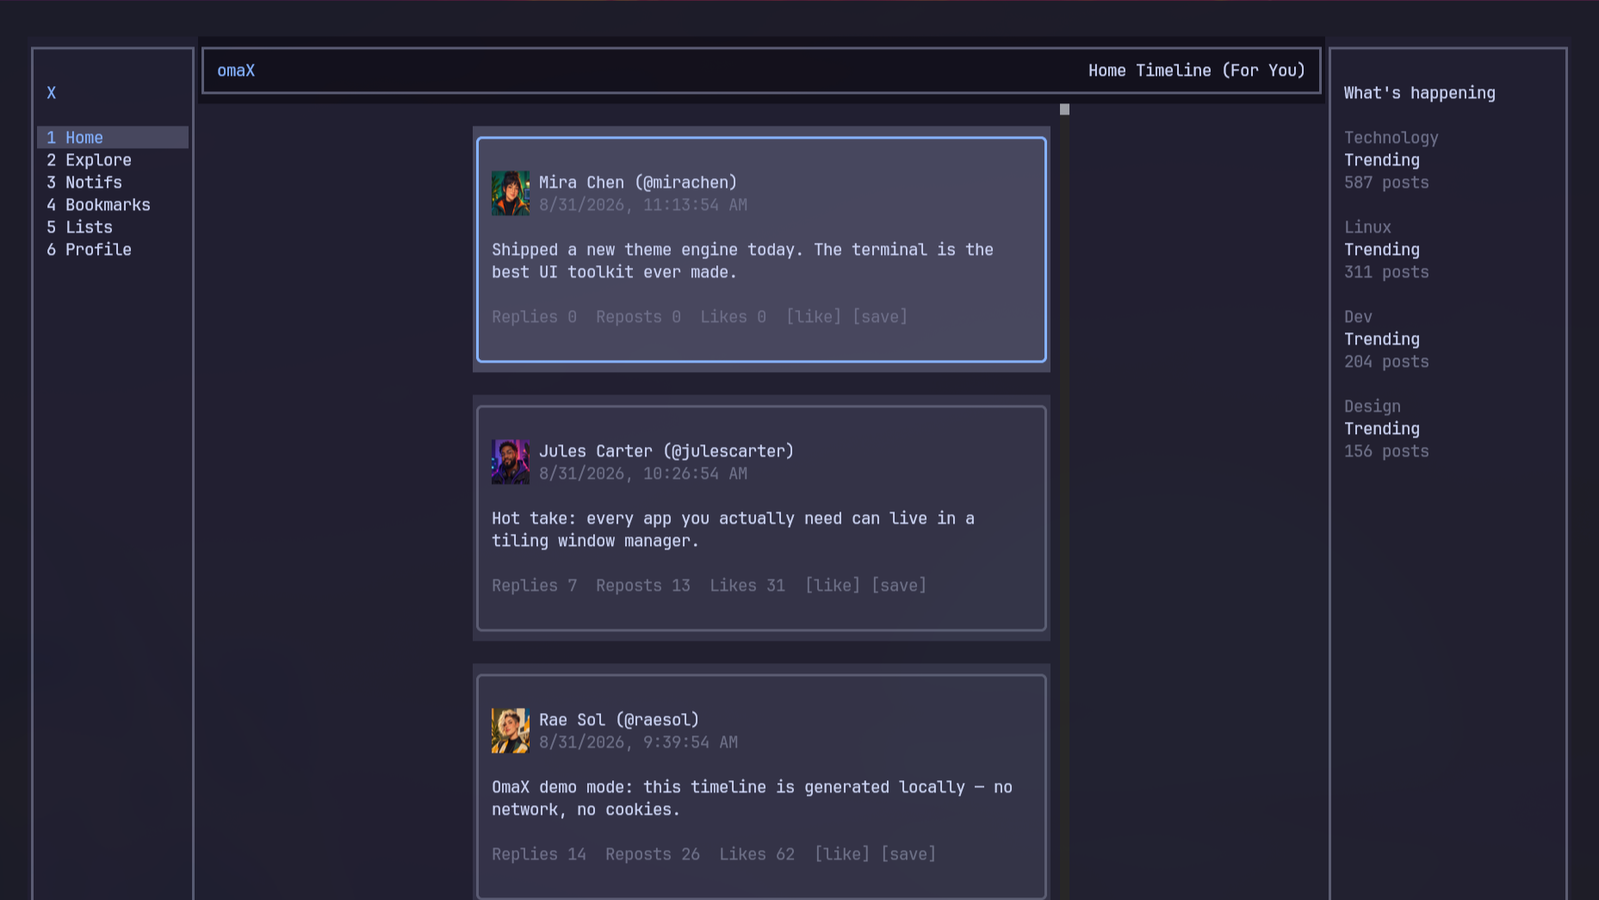
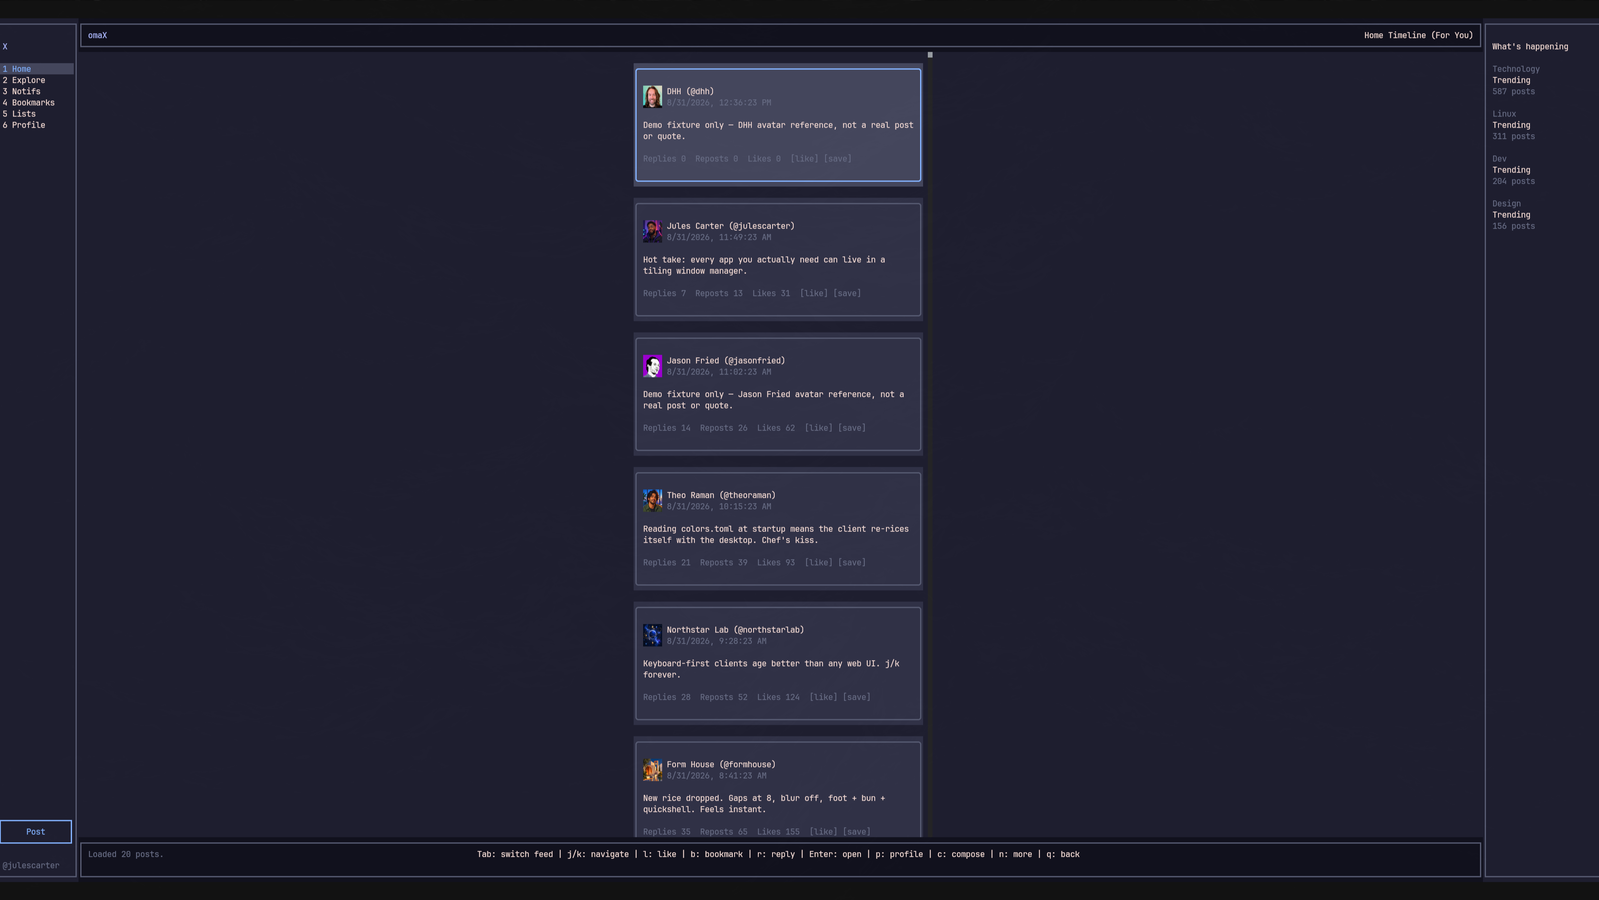
Release omaX 0.1.1

diff --git a/plugins/omax/app/src/demo/demo-client.ts b/plugins/omax/app/src/demo/demo-client.ts
@@ -19,12 +19,12 @@ import type {
   TwitterUser,
 } from "../lib/x-client/index.js";
 
-const DEMO_ME: TwitterUser = { id: "1", username: "mirachen", name: "Mira Chen" };
+const DEMO_ME: TwitterUser = { id: "1", username: "julescarter", name: "Jules Carter" };
 
 const AUTHORS = [
-  { username: "mirachen", name: "Mira Chen", column: 0, row: 0 },
+  { username: "dhh", name: "DHH", column: 0, row: 0 },
   { username: "julescarter", name: "Jules Carter", column: 1, row: 0 },
-  { username: "raesol", name: "Rae Sol", column: 2, row: 0 },
+  { username: "jasonfried", name: "Jason Fried", column: 2, row: 0 },
   { username: "theoraman", name: "Theo Raman", column: 0, row: 1 },
   { username: "northstarlab", name: "Northstar Lab", column: 1, row: 1 },
   { username: "formhouse", name: "Form House", column: 2, row: 1 },
@@ -33,9 +33,9 @@ const AUTHORS = [
 const avatarUrls = new Map<string, string>();
 const AVATAR_CELL_SIZE = 256;
 
-/** Crop the repository-owned fictional avatar atlas into private runtime files.
- *  Demo mode exercises the same Kitty image pipeline as live accounts while
- *  remaining completely offline and free of real identities. */
+/** Crop the local demo avatar atlas into private runtime files. Demo mode
+ *  exercises the same Kitty image pipeline as live accounts while remaining
+ *  completely offline. The DHH reference is explicitly labelled in its card. */
 async function prepareDemoAvatars(): Promise<void> {
   const dir = join(
     process.env.XDG_STATE_HOME?.trim() || join(homedir(), ".local", "state"),
@@ -77,11 +77,21 @@ const TEXTS = [
   "Demo post with a longer body to exercise wrapping: terminals render text at a fixed grid, so layout code has to measure in cells, not pixels — which is exactly why TUI layout engines feel so predictable once you internalize the model.",
 ];
 
+const REFERENCE_FIXTURE_TEXT = new Map([
+  ["dhh", "Demo fixture only — DHH avatar reference, not a real post or quote."],
+  [
+    "jasonfried",
+    "Demo fixture only — Jason Fried avatar reference, not a real post or quote.",
+  ],
+]);
+
 function makeTweet(i: number, prefix = ""): TweetData {
   const author = AUTHORS[i % AUTHORS.length]!;
+  const text =
+    REFERENCE_FIXTURE_TEXT.get(author.username) ?? TEXTS[i % TEXTS.length]!;
   return {
     id: String(100000 + i),
-    text: `${prefix}${TEXTS[i % TEXTS.length]!}`,
+    text: `${prefix}${text}`,
     author: { username: author.username, name: author.name, profileImageUrl: avatarUrls.get(author.username) },
     authorId: String(10 + (i % AUTHORS.length)),
     createdAt: new Date(Date.now() - i * 47 * 60_000).toISOString(),
@@ -152,7 +162,7 @@ class DemoClient {
   async getListMemberships() {
     return {
       success: true,
-      lists: [{ id: "9003", name: "linux desktop", memberCount: 512, owner: { id: "2", username: "raesol", name: "Rae Sol" } }],
+      lists: [{ id: "9003", name: "linux desktop", memberCount: 512, owner: { id: "2", username: "jasonfried", name: "Jason Fried" } }],
     };
   }
 

diff --git a/plugins/omax/app/src/ui/media/kitty-backend.ts b/plugins/omax/app/src/ui/media/kitty-backend.ts
@@ -77,7 +77,7 @@ export class KittyInlineImageBackend implements InlineImageBackend {
       this.writeRaw(
         this.formatGraphicsCommand({
           a: "d",
-          d: "p",
+          d: "i",
           i: placement.kittyImageId,
           p: placement.placementId,
           q: 2,
@@ -123,16 +123,20 @@ export class KittyInlineImageBackend implements InlineImageBackend {
       needsTransmit = true;
     }
 
-    const newPlacementId = this.nextPlacementId++;
+    const reusesPlacement = oldPlacement?.kittyImageId === kittyImageId;
+    const newPlacementId = reusesPlacement
+      ? oldPlacement.placementId
+      : this.nextPlacementId++;
     const parts: string[] = [];
 
-    // 1. Atomically delete the previous placement (if any). Keep image data
-    //    so unrelated placements that share the same id stay valid.
-    if (oldPlacement) {
+    // Reusing an image/placement id pair makes Kitty move the existing
+    // placement instead of creating another one. If the content changed,
+    // remove the old pair while retaining its transmitted image data.
+    if (oldPlacement && !reusesPlacement) {
       parts.push(
         this.formatGraphicsCommand({
           a: "d",
-          d: "p",
+          d: "i",
           i: oldPlacement.kittyImageId,
           p: oldPlacement.placementId,
           q: 2,
@@ -140,13 +144,12 @@ export class KittyInlineImageBackend implements InlineImageBackend {
       );
     }
 
-    // 2. Transmit pixel data only the first time we see this content.
+    // Transmit pixel data only the first time we see this content.
     if (needsTransmit) {
       this.appendTransmitChunks(parts, request.asset.pngData, kittyImageId);
     }
 
-    // 3. Move cursor to the target cell and create a new placement that
-    //    references the (possibly long-lived) image id.
+    // Move the existing placement or create one for newly seen content.
     const row = request.placement.y + 1;
     const col = request.placement.x + 1;
     parts.push(`${ESC}7`);

diff --git a/plugins/omax/app/test/profile-images.test.ts b/plugins/omax/app/test/profile-images.test.ts
@@ -74,4 +74,46 @@ describe("profile image mapping", () => {
       await rm(stateHome, { recursive: true, force: true });
     }
   });
+
+  test("demo labels the DHH likeness as a fixture rather than a real post", async () => {
+    const stateHome = await mkdtemp(join(tmpdir(), "omax-dhh-demo-state-"));
+    const previousStateHome = process.env.XDG_STATE_HOME;
+    process.env.XDG_STATE_HOME = stateHome;
+
+    try {
+      const { client } = await createDemoClient();
+      const timeline = await client.getHomeTimeline(1);
+      const dhh = timeline.tweets?.[0];
+
+      expect(dhh?.author.username).toBe("dhh");
+      expect(dhh?.author.name).toBe("DHH");
+      expect(dhh?.text).toContain("not a real post or quote");
+      expect(dhh?.author.profileImageUrl?.startsWith("file:")).toBe(true);
+    } finally {
+      if (previousStateHome === undefined) delete process.env.XDG_STATE_HOME;
+      else process.env.XDG_STATE_HOME = previousStateHome;
+      await rm(stateHome, { recursive: true, force: true });
+    }
+  });
+
+  test("demo labels the Jason Fried likeness as a fixture", async () => {
+    const stateHome = await mkdtemp(join(tmpdir(), "omax-jason-demo-state-"));
+    const previousStateHome = process.env.XDG_STATE_HOME;
+    process.env.XDG_STATE_HOME = stateHome;
+
+    try {
+      const { client } = await createDemoClient();
+      const timeline = await client.getHomeTimeline(3);
+      const jason = timeline.tweets?.[2];
+
+      expect(jason?.author.username).toBe("jasonfried");
+      expect(jason?.author.name).toBe("Jason Fried");
+      expect(jason?.text).toContain("not a real post or quote");
+      expect(jason?.author.profileImageUrl?.startsWith("file:")).toBe(true);
+    } finally {
+      if (previousStateHome === undefined) delete process.env.XDG_STATE_HOME;
+      else process.env.XDG_STATE_HOME = previousStateHome;
+      await rm(stateHome, { recursive: true, force: true });
+    }
+  });
 });

diff --git a/plugins/omax/app/src/ui/media/inline-image-manager.ts b/plugins/omax/app/src/ui/media/inline-image-manager.ts
@@ -42,6 +42,7 @@ export class InlineImageManager {
   private warnedUnavailable = false;
   private warnedFailure = false;
   private reconcileSequence = 0;
+  private scrollRefreshSequence = 0;
 
   public constructor(
     private readonly renderer: CliRenderer,
@@ -190,6 +191,7 @@ export class InlineImageManager {
 
   public async clearView(viewId: string): Promise<void> {
     this.reconcileSequence += 1;
+    this.scrollRefreshSequence += 1;
     const idsToHide = [...this.activeKittyImages.values()]
       .filter((state) => state.viewId === viewId)
       .map((state) => state.imageId);
@@ -201,8 +203,30 @@ export class InlineImageManager {
 
   public async clearAll(): Promise<void> {
     this.reconcileSequence += 1;
+    this.scrollRefreshSequence += 1;
     await this.kittyBackend.clearAll();
     this.activeKittyImages.clear();
+  }
+
+  /** ScrollBox moves its children after the app's normal post-render pass.
+   *  Re-read anchor coordinates once that layout settles so Kitty placements
+   *  move with the text instead of remaining painted at their old cells. */
+  public reconcileAfterScroll(reconcile: () => Promise<void>): void {
+    const sequence = ++this.scrollRefreshSequence;
+    void this.renderer
+      .idle()
+      .then(async () => {
+        if (sequence !== this.scrollRefreshSequence) {
+          return;
+        }
+        await reconcile();
+      })
+      .catch((error) => {
+        if (!this.warnedFailure) {
+          this.warnedFailure = true;
+          this.setStatus(`Kitty image refresh failed: ${(error as Error).message}`);
+        }
+      });
   }
 
   private resolveMode(): ResolvedImageMode {

diff --git a/plugins/omax/app/test/inline-image-manager.test.ts b/plugins/omax/app/test/inline-image-manager.test.ts
@@ -1,0 +1,51 @@
+import { describe, expect, test } from "bun:test";
+import type { CliRenderer } from "@opentui/core";
+import { InlineImageManager } from "../src/ui/media/inline-image-manager.js";
+
+function deferred(): { promise: Promise<void>; resolve: () => void } {
+  let resolve!: () => void;
+  const promise = new Promise<void>((done) => {
+    resolve = done;
+  });
+  return { promise, resolve };
+}
+
+describe("InlineImageManager scroll reconciliation", () => {
+  test("runs only the latest refresh after renderer layout settles", async () => {
+    const idle = deferred();
+    const renderer = { idle: () => idle.promise } as unknown as CliRenderer;
+    const manager = new InlineImageManager(renderer, "off", () => {});
+    const calls: string[] = [];
+
+    manager.reconcileAfterScroll(async () => {
+      calls.push("stale");
+    });
+    manager.reconcileAfterScroll(async () => {
+      calls.push("current");
+    });
+
+    idle.resolve();
+    await idle.promise;
+    await Promise.resolve();
+    await Promise.resolve();
+
+    expect(calls).toEqual(["current"]);
+  });
+
+  test("view cleanup cancels a pending refresh", async () => {
+    const idle = deferred();
+    const renderer = { idle: () => idle.promise } as unknown as CliRenderer;
+    const manager = new InlineImageManager(renderer, "off", () => {});
+    let refreshed = false;
+
+    manager.reconcileAfterScroll(async () => {
+      refreshed = true;
+    });
+    await manager.clearView("timeline");
+    idle.resolve();
+    await idle.promise;
+    await Promise.resolve();
+
+    expect(refreshed).toBe(false);
+  });
+});

diff --git a/plugins/omax/app/test/kitty-backend.test.ts b/plugins/omax/app/test/kitty-backend.test.ts
@@ -54,4 +54,22 @@ describe("KittyInlineImageBackend", () => {
     }).activePlacements;
     expect(placements.has("timeline:avatar:post-1")).toBe(true);
   });
+
+  test("moves an unchanged image by reusing its placement id", async () => {
+    const { backend, output } = backendWithRenderer();
+    await backend.show(request("one", 1));
+    await backend.update(request("one", 9));
+
+    expect(output[1]).not.toContain("a=d");
+    expect(output[1]).toContain("a=p,i=1,p=1");
+  });
+
+  test("deletes the exact old placement when image content changes", async () => {
+    const { backend, output } = backendWithRenderer();
+    await backend.show(request("one", 1));
+    await backend.update(request("two", 9));
+
+    expect(output[1]).toContain("a=d,d=i,i=1,p=1");
+    expect(output[1]).toContain("a=p,i=2,p=2");
+  });
 });

diff --git a/plugins/omax/app/src/ui/views/list-timeline.ts b/plugins/omax/app/src/ui/views/list-timeline.ts
@@ -302,6 +302,9 @@ export class ListTimelineView implements OmaXView {
         scrollBox.scrollChildIntoView(selectedCardId);
         const after = scrollBox.scrollTop;
 
+        if (before !== after) {
+          this.ctx.inlineImageManager.reconcileAfterScroll(() => this.onDidRender());
+        }
         if (before === after && attempt < 4) {
           this.scrollSelectedIntoViewWithRetry(selectedCardId, attempt + 1);
         }

diff --git a/plugins/omax/app/src/ui/views/bookmarks.ts b/plugins/omax/app/src/ui/views/bookmarks.ts
@@ -301,6 +301,9 @@ export class BookmarksView implements OmaXView {
         scrollBox.scrollChildIntoView(selectedCardId);
         const after = scrollBox.scrollTop;
 
+        if (before !== after) {
+          this.ctx.inlineImageManager.reconcileAfterScroll(() => this.onDidRender());
+        }
         if (before === after && attempt < 4) {
           this.scrollSelectedIntoViewWithRetry(selectedCardId, attempt + 1);
         }

diff --git a/plugins/omax/app/src/ui/views/timeline.ts b/plugins/omax/app/src/ui/views/timeline.ts
@@ -317,6 +317,9 @@ export class TimelineView implements OmaXView {
         scrollBox.scrollChildIntoView(selectedCardId);
         const after = scrollBox.scrollTop;
 
+        if (before !== after) {
+          this.ctx.inlineImageManager.reconcileAfterScroll(() => this.onDidRender());
+        }
         if (before === after && attempt < 4) {
           this.scrollSelectedIntoViewWithRetry(selectedCardId, attempt + 1);
         }

diff --git a/plugins/omax/app/src/ui/views/search.ts b/plugins/omax/app/src/ui/views/search.ts
@@ -464,6 +464,9 @@ export class SearchView implements OmaXView {
         scrollBox.scrollChildIntoView(selectedCardId);
         const after = scrollBox.scrollTop;
 
+        if (before !== after) {
+          this.ctx.inlineImageManager.reconcileAfterScroll(() => this.onDidRender());
+        }
         if (before === after && attempt < 4) {
           this.scrollSelectedIntoViewWithRetry(selectedCardId, attempt + 1);
         }

diff --git a/plugins/omax/app/src/ui/views/post-detail.ts b/plugins/omax/app/src/ui/views/post-detail.ts
@@ -318,6 +318,9 @@ export class PostDetailView implements OmaXView {
       scrollBox.scrollChildIntoView(selectedCardId);
       const after = scrollBox.scrollTop;
 
+      if (before !== after) {
+        this.ctx.inlineImageManager.reconcileAfterScroll(() => this.onDidRender());
+      }
       if (before === after && attempt < 4) {
         this.scrollSelectedIntoViewWithRetry(selectedCardId, attempt + 1);
       }

diff --git a/plugins/omax/app/src/ui/views/profile.ts b/plugins/omax/app/src/ui/views/profile.ts
@@ -322,6 +322,9 @@ export class ProfileView implements OmaXView {
       scrollBox.scrollChildIntoView(selectedCardId);
       const after = scrollBox.scrollTop;
 
+      if (before !== after) {
+        this.ctx.inlineImageManager.reconcileAfterScroll(() => this.onDidRender());
+      }
       if (before === after && attempt < 4) {
         this.scrollSelectedIntoViewWithRetry(selectedCardId, attempt + 1);
       }
